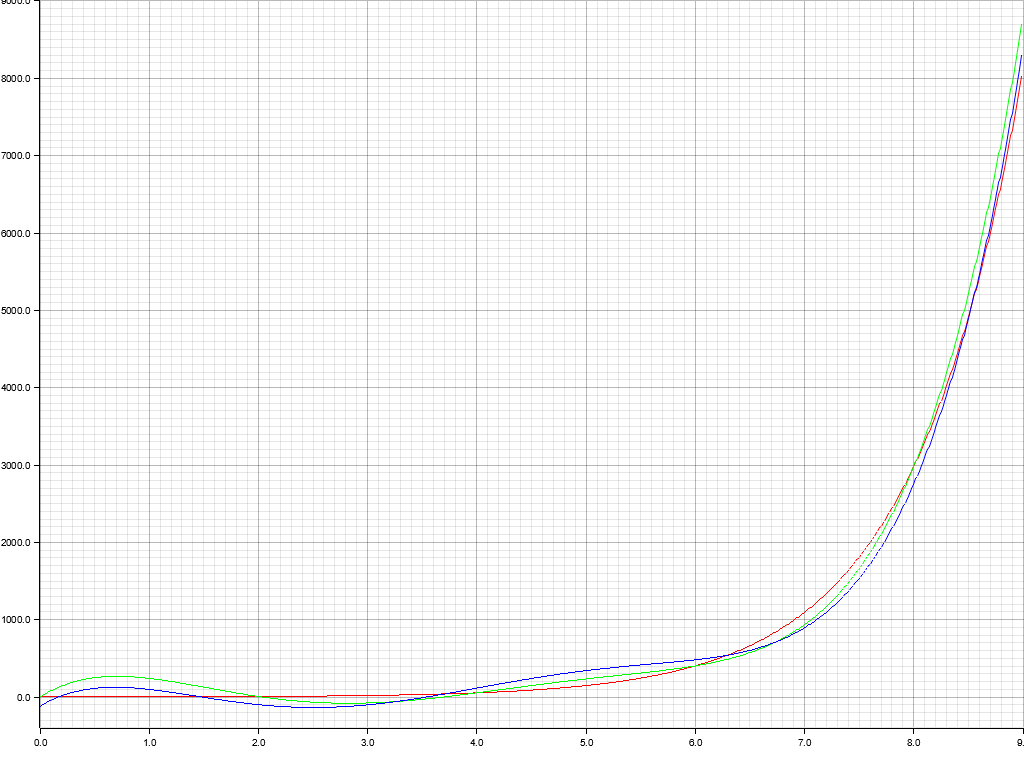
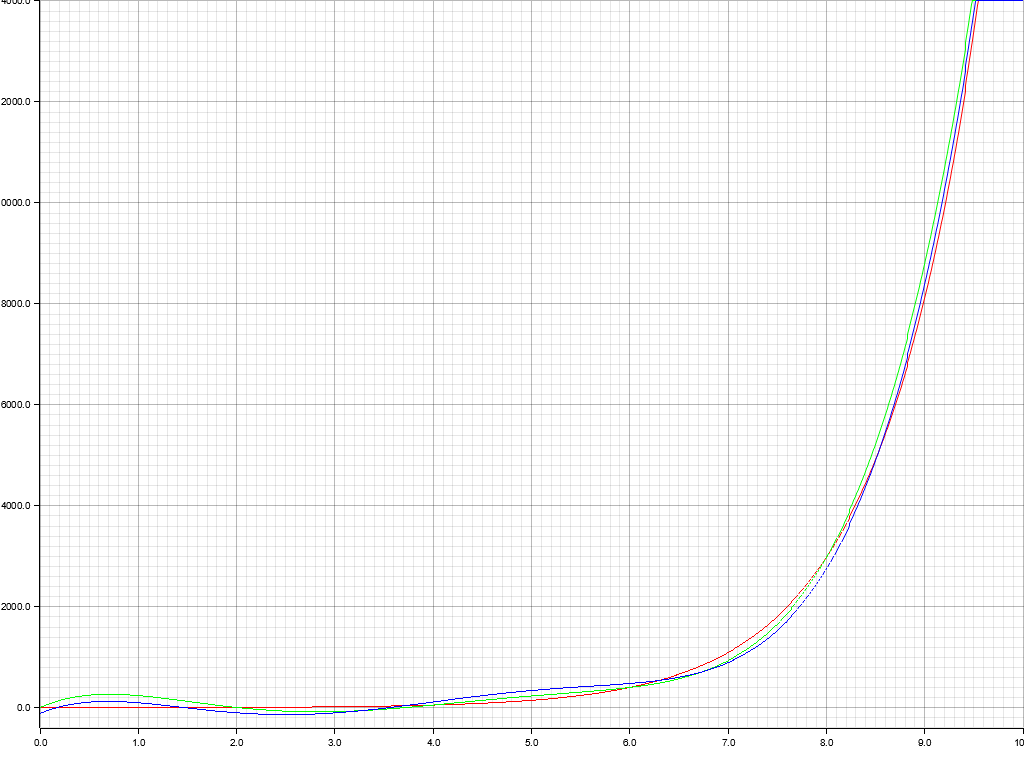
Comparison of Uniform & Tchebychev

Changed region(s): [[0.0, 0.0, 1.0, 0.9688]]

diff --git a/graphing/src/main.rs b/graphing/src/main.rs
@@ -3,23 +3,69 @@ mod error_function;
 mod tchebychev;
 mod lagrange;
 
+fn compare_uniform_tchebychev(f: impl Fn(f64) -> f64, a: f64, b: f64, n: u32) {
+/*
+Generates and plots the polynomials generated from 
+the lagrange interpolation using uniformly distributed points (Green)
+and the Tchebychev roots (Blue)
+approximating the function f (Red) on the interval [a,b]
+*/
 
-fn make_lagrange_function<'a>(xn: &'a Vec<f64> ,fxn: &'a Vec<f64>) -> impl Fn(f64) -> f64 + 'a {
-  let poly = |x: f64|  lagrange::divided_differences(xn, fxn, x);
-  return poly;
+  let s: f64 = (b-a)/((n - 1)  as f64);
+  let xn: Vec<f64> = (0..n).map(|x| a + s * x as f64).collect::<Vec<f64>>();
+  let fxn: Vec<f64> = xn.iter().map(|x| f(*x)).collect();
+
+  let xtche: Vec<f64> = tchebychev::roots_interval(n, a, b);
+  let fxtche: Vec<f64> = xtche.iter().map(|x| f(*x)).collect();
+
+  let approx_f =  lagrange::build_function(&xn , &fxn);
+  let tche_f = lagrange::build_function(&xtche , &fxtche);
+
+
+  let root_drawing_area = BitMapBackend::new("images/comparison.png", (1024, 768))
+  .into_drawing_area();
+  
+  root_drawing_area.fill(&WHITE).unwrap();
+  
+  let mut chart = ChartBuilder::on(&root_drawing_area)
+  // enables Y axis, the size is 40 px
+  .set_label_area_size(LabelAreaPosition::Left, 40)
+  // enable X axis, the size is 40 px
+  .set_label_area_size(LabelAreaPosition::Bottom, 40)
+  .build_cartesian_2d::<std::ops::Range<f64>,std::ops::Range<f64>>(a..b, 0.0..0.2)
+  .unwrap();
+  
+  chart.configure_mesh().draw().unwrap();
+  
+  chart.draw_series(LineSeries::new(
+  (a as i32 * 100.. b as i32 * 100).map(|x:i32| x as f64 / 100.0).map(|x:f64| (x, f(x))),
+  &RED
+  )).unwrap();
+  
+  chart.draw_series(LineSeries::new(
+  (a as i32 * 100.. b as i32 * 100).map(|x:i32| x as f64 / 100.0).map(|x:f64| (x, approx_f(x))),
+  &GREEN
+  )).unwrap();
+
+  chart.draw_series(LineSeries::new(
+    (a as i32 * 100.. b as i32 * 100).map(|x:i32| x as f64 / 100.0).map(|x:f64| (x, tche_f(x))),
+    &BLUE
+    )).unwrap();
+  
 }
 
 
 
-fn lagragnge_graph_exp_0to10() {  
+fn lagragnge_graph_exp_0to10() {
+
   let xn: Vec<f64> = vec![0.0, 2.0, 4.0, 6.0, 8.0, 10.0];
   let fxn: Vec<f64> = xn.iter().map(|x: &f64| x.exp() ).collect();
 
   let xtche: Vec<f64> = tchebychev::roots_interval(6, 0.0, 10.0);
   let fxtche: Vec<f64> = xtche.iter().map(|x: &f64| x.exp() ).collect();
 
-  let approx_exp =  make_lagrange_function(&xn , &fxn);
-  let tche_exp = make_lagrange_function(&xtche , &fxtche);
+  let approx_exp =  lagrange::build_function(&xn , &fxn);
+  let tche_exp = lagrange::build_function(&xtche , &fxtche);
 
 
   let root_drawing_area = BitMapBackend::new("images/lagrange_exp.png", (1024, 768))
@@ -32,23 +78,23 @@ fn lagragnge_graph_exp_0to10() {
   .set_label_area_size(LabelAreaPosition::Left, 40)
   // enable X axis, the size is 40 px
   .set_label_area_size(LabelAreaPosition::Bottom, 40)
-  .build_cartesian_2d(0.0..9.0 as f64, -400.0..9000.0)
+  .build_cartesian_2d(0.0..10.0 as f64, -400.0..14000.0)
   .unwrap();
   
   chart.configure_mesh().draw().unwrap();
   
   chart.draw_series(LineSeries::new(
-  (0..900).map(|x:i32| x as f64 / 100.0).map(|x:f64| (x, x.exp())),
+  (0..1000).map(|x:i32| x as f64 / 100.0).map(|x:f64| (x, x.exp())),
   &RED
   )).unwrap();
   
   chart.draw_series(LineSeries::new(
-  (0..900).map(|x:i32| x as f64 / 100.0).map(|x:f64| (x, approx_exp(x))),
+  (0..1000).map(|x:i32| x as f64 / 100.0).map(|x:f64| (x, approx_exp(x))),
   &GREEN
   )).unwrap();
 
   chart.draw_series(LineSeries::new(
-    (0..900).map(|x:i32| x as f64 / 100.0).map(|x:f64| (x, tche_exp(x))),
+    (0..1000).map(|x:i32| x as f64 / 100.0).map(|x:f64| (x, tche_exp(x))),
     &BLUE
     )).unwrap();
   
@@ -57,7 +103,9 @@ fn lagragnge_graph_exp_0to10() {
 
 
 fn main() {
-  error_function::plot_from(-4, 4);
-  tchebychev::plot_reg(12);
-  lagragnge_graph_exp_0to10();
+// error_function::plot_from(-4, 4);
+//  tchebychev::plot_reg(12);
+//  lagragnge_graph_exp_0to10();
+  fn f(x:f64)->f64{ 1f64 / (x*x + 5f64)}
+  compare_uniform_tchebychev(f, -10.0, 10.0, 11)
 }

diff --git a/graphing/src/lagrange.rs b/graphing/src/lagrange.rs
@@ -1,5 +1,3 @@
-
-
 pub fn divided_differences (xn:&Vec<f64>, fxn:&Vec<f64>, x:f64) -> f64 {
   assert!(xn.len() == fxn.len());
   let n: usize = fxn.len();
@@ -18,4 +16,10 @@ pub fn divided_differences (xn:&Vec<f64>, fxn:&Vec<f64>, x:f64) -> f64 {
   
   return result;
 
+}
+
+
+pub fn build_function<'a>(xn: &'a Vec<f64> ,fxn: &'a Vec<f64>) -> impl Fn(f64) -> f64 + 'a {
+  let poly = |x: f64|  divided_differences(xn, fxn, x);
+  return poly;
 }
